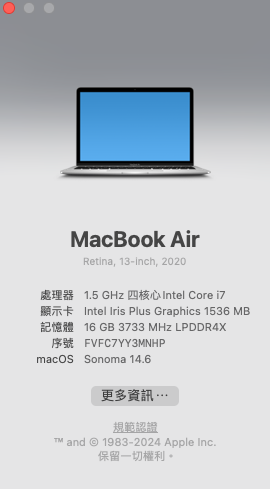
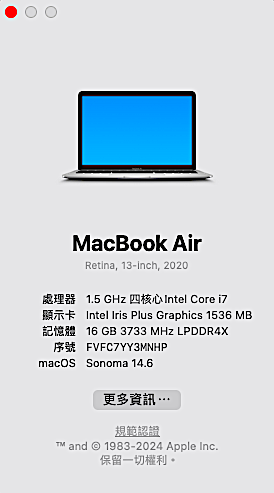
update oc and macos

diff --git a/README.md b/README.md
@@ -1,26 +1,33 @@
 # Razer Blade Stealth 13 Icelake Hackintosh (OpenCore)
 
 ## Support Version
-* OpenCore: `0.8.2`
-* MacOS: `Monterey 12.4`
+![OpenCore](https://img.shields.io/badge/OpenCore-1.0.2-grey?style=for-the-badge&logo=okta&logoColor=white&labelColor=blue&link=https%3A%2F%2Fgithub.com%2Facidanthera%2FOpenCorePkg%2Freleases%2Ftag%2F1.0.2
+) &emsp; ![MacOS](https://img.shields.io/badge/MacOS-Sonoma_14.6-grey?style=for-the-badge&logo=apple&logoColor=white&labelColor=black
+)
 
+## Screenshot
+### About this Mac
+<p align="center"><img src="./Screenshot/Sonoma%2014.6.png"></p>
 
-![](https://i.imgur.com/rgKySm7.png)
-    
-> I changed graphic card name in this picture.
+### Idle power consumption
+<p align="center"><img src="./Screenshot/idle.png"></p>
+
+> [!NOTE]
+> The battery hardly drains during sleep mode. With the brightness set to about 60%, it drains about 5% of the battery over 30 minutes of regular use (watching videos, listening to music, and word processing). Theoretically, the battery life can last up to 10 hours.
 
 ## Tested Model Spec
 * ### Razer Blade Stealth 13 (2020) RZ09-0310
-    ![](https://assets2.razerzone.com/images/blade-stealth-2020/razer-blade-stealth-2020-120hz-model.png)
-    |  Specifications   |              Detail                               |
-    |-------------------|---------------------------------------------------|
-    |Processor          |i7-1065G7                                          |
-    |Integrated Graphics|Intel Iris Plus Graphics                           |
-    |Graphic Card       |NVIDIA® GeForce GTX 1650 Ti Max-Q (4GB GDDR5 VRAM) |
-    |Memory             |16GB<sup>8G*2</sup> LPDDR4X 3733 MHz               |   
-    |Sound Card         |Realtek ALC298 (0x0298)                            |
-    |Wireless Card      |AX201                                              |
-    |Battery            |53.1Wh                                             |
+    <p align="center"><img src="https://assets2.razerzone.com/images/blade-stealth-2020/razer-blade-stealth-2020-120hz-model.png"></p>
+
+    | Specifications      | Detail                                             |
+    | ------------------- | -------------------------------------------------- |
+    | Processor           | i7-1065G7                                          |
+    | Integrated Graphics | Intel Iris Plus Graphics                           |
+    | Graphic Card        | NVIDIA® GeForce GTX 1650 Ti Max-Q (4GB GDDR5 VRAM) |
+    | Memory              | 16GB<sup>8G*2</sup> LPDDR4X 3733 MHz               |
+    | Sound Card          | Realtek ALC298 (0x0298)                            |
+    | Wireless Card       | AX201                                              |
+    | Battery             | 53.1Wh                                             |
 
 
 ## What is Working?
@@ -28,65 +35,75 @@
 - Hardware acceleration
 - Sleep/Wake
 - Battery read-out
-- Audio (Internal speakers, 3.5mm headphone jack) <sup>**Unstable(Boot from Windows)**</sup>
+- Audio (Internal speakers, 3.5mm headphone jack)
 - Keyboard & trackpad/touchscreen with all macOS gestures
 - Wi-Fi & Bluetooth
 - USB ports
 
 ## What is Not Working?
-- Airdrop <sup>**Not Supported in MacOS when using Intel Wireless Card**</sup>
-- NVIDIA® GeForce GTX 1650 Ti Max-Q <sup>**Disable in ACPI**</sup>
+- AWDL (Apple Wireless Direct Link) <sup>**Not Supported in MacOS while using Intel Wireless Card**</sup>
+- NVIDIA® GeForce GTX 1650 Ti Max-Q <sup>**Disable in BIOS**</sup>
 - ThunderBolt 3 <sup>**Type-C port is fine to use.**</sup>
 
 ---
 ---
 # Guidence
 ## Getting started with [OpenCore](https://dortania.github.io/OpenCore-Install-Guide/)
+
 > Essentially follow the [Laptop Icelake | OpenCore Install Guide](https://dortania.github.io/OpenCore-Install-Guide/config-laptop.plist/icelake.html#intel-bios-settings) and incorporate the insights listed below.
 ## BIOS
+> [!CAUTION]
 > We accept no liability for any loss or damage howsoever changing BIOS with this guidance and cause damage on your device. Please be careful and make sure you know what you are doing.
 * Due to some BIOS setting options are hidden by Razer, we can use several tools to help us matching [Intel BIOS Settings | OpenCore Install Guide](https://dortania.github.io/OpenCore-Install-Guide/config-laptop.plist/icelake.html#intel-bios-settings), here are the steps in  [StoneEvil](https://github.com/stonevil/Razer_Blade_Advanced_early_2019_Hackintosh) guide.
+
+### Settings
+- **Advanced**
+  - **CPU Configuration**
+    - **Software Guard Extensions(SGX)** →&nbsp;`Disabled`
+  - **Power and Performance**
+    - **CPU Power Management**
+      - **CPU Lock Configuration**
+        - **CFG Lock** →&nbsp;`Disabled`
+  - **Thunderbolt(TM) Configuration**
+    - **Intergrated Thunderbolt(TM) Support** →&nbsp;`Disabled`
+  - **USB Configuration** (No need `ReleaseUsbOwnership` in UEFI > Quirks when the follow options are enabled.)
+    - **XHCI Hand-off** →&nbsp;`Enabled`
+    - **EHCI Hand-off** →&nbsp;`Enabled`
+- **Chipset**
+  - **System Agent(SA) Configuration**
+    - **Graphics Configuration**
+      - **Primary Display** →&nbsp;`IGFX` (Optional, or disable in ACPI)
+      - **DVMT Pre-Allocated** →&nbsp;`64M`
+      - **DVMT Total Gfx Memory** →&nbsp;`Max`
+    - **TCSS Setup Menu** (Optional. Use for disable Thunderbolt(TM) Device)
+        - **ITBI PCI0 Root Port** →&nbsp;`Disabled`
+        - **ITBI PCI1 Root Port** →&nbsp;`Disabled`
+        - **ITBT DMA0** →&nbsp;`Disabled`
+    - **VT-d** →&nbsp;`Disabled`
+    - **SATA and RST Configuration**
+      - **SATA Mode Selection** →&nbsp;`AHCI`
+  - **Security**
+    - **Secure Boot**
+      - **Secure Boot** →&nbsp;`Disabled`
+- **Boot**
+    - **Fast Boot** →&nbsp;`Disabled`
+    - **CSM Support** →&nbsp;`Disabled`
+
 ---
 ---
 # Specific Patch
 ## ACPI
 ### Add
-* SSDT-dGPU-Off
-    * More details in [Disabling laptop dGPUs | Getting Started With ACPI](https://dortania.github.io/Getting-Started-With-ACPI/Laptops/laptop-disable.html#disabling-laptop-dgpus-ssdt-dgpu-off-nohybgfx).
-* SSDT-PTSWAK
-    * More details in [Here](https://www.reddit.com/r/hackintosh/comments/vz2lfq/success_macos_monterey_124_on_a_2021_razer_blade/).
-* SSDT-TPAD
-    * I wrote this by myself, and it made the touchpad work.
-
-### Patch
-* SSDT-TPAD
-    |Comment|String |Change _STA to XSTA in TPD0|
-    |-------|-------|---------------------------|
-    |Enabled|Boolean|YES                        |
-    |Find   |Data   |141C5F53 544100            |
-    |Replace|Data   |141C5853 544100            |
-
-* SSDT-PTSWAK
-    |Comment        |String |Rename _PTS to ZPTS (Black Screen on Wake Fix)|
-    |---------------|-------|----------------------------------------------|
-    |Enabled        |Boolean|YES                                           |
-    |Find           |Data   |5F505453 01                                   |
-    |Replace        |Data   |5A505453 01                                   |
-    |TableSignature |Data   |44534454                                      |
-
-    |Comment        |String |Rename _WAK to ZWAK (Black Screen on Wake Fix)|
-    |---------------|-------|----------------------------------------------|
-    |Enabled        |Boolean|YES                                           |
-    |Find           |Data   |5F57414B 01                                   |
-    |Replace        |Data   |5A57414B 01                                   |
-    |TableSignature |Data   |44534454                                      |
-
-    |Comment        |String |Rename RTEC to XTEC (Black Screen on Wake Fix)|
-    |---------------|-------|----------------------------------------------|
-    |Enabled        |Boolean|YES                                           |
-    |Find           |Data   |47055254 45430070                             |
-    |Replace        |Data   |47055854 45430070                             |
-    |TableSignature |Data   |44534454                                      |
+* **SSDT-dGPU-Off**
+    * More details in [Disabling laptop dGPUs | Getting Started With ACPI](https://dortania.github.io/Getting-Started-With-ACPI/Laptops/laptop-disable.html#disabling-laptop-dgpus-ssdt-dgpu-off-nohybgfx). No need when you disabled dGPU in BIOS.
+* **SSDT-PTSWAK**
+    * This fixes the issue where the screen needed to be turned on twice upon waking from sleep by modifying the content in [here](https://www.reddit.com/r/hackintosh/comments/vz2lfq/success_macos_monterey_124_on_a_2021_razer_blade/) to meet the requirements.
+* **SSDT-PPRW**
+    * To fix the instant wake caused by RP05. More details in [here](https://www.tonymacx86.com/threads/instant-dark-wake-after-sleep-gigabyte-b460-aorus-opencore.317139/).
+* **SSDT-TPD0**
+    * I wrote this myself, enabling I2C1 and disabling the other I2CX devices to make the touchpad work.
+* Other SSDT
+    * Refer to [OC-little](https://github.com/daliansky/OC-little) to add missing devices and verify all functionalities, including power consumption and sleep.
 
 ## DeviceProperties
 ### Add
@@ -94,6 +111,8 @@
    - [**Support all possible Core Display Clock (CDCLK) frequencies on ICL platforms**](https://github.com/acidanthera/WhateverGreen/blob/master/Manual/FAQ.IntelHD.en.md#support-all-possible-core-display-clock-cdclk-frequencies-on-icl-platforms)
    - [**Fix the issue that the builtin display remains garbled after the system boots on ICL platforms**](https://github.com/acidanthera/WhateverGreen/blob/master/Manual/FAQ.IntelHD.en.md#fix-the-issue-that-the-builtin-display-remains-garbled-after-the-system-boots-on-icl-platforms)
    - More details in [**Intel Iris Plus Graphics (Ice Lake processors) | WhateverGreen (Intel® HD Graphics FAQs)**](https://github.com/acidanthera/WhateverGreen/blob/master/Manual/FAQ.IntelHD.en.md#intel-iris-plus-graphics-ice-lake-processors)
+> [!TIP]
+> Add the `pci-aspm-default` parameter to all PCIe devices detected in Hackintool and set ASPM to L0 to optimize power-saving effects. More details in [here](https://github.com/daliansky/OC-little/tree/master/16-%E7%A6%81%E6%AD%A2PCI%E8%AE%BE%E5%A4%87%E5%8F%8A%E8%AE%BE%E7%BD%AEASPM%E5%B7%A5%E4%BD%9C%E6%A8%A1%E5%BC%8F/16-2-%E8%AE%BE%E7%BD%AEASPM%E5%B7%A5%E4%BD%9C%E6%A8%A1%E5%BC%8F).
 
 ## NVRAM
 ### Add
@@ -110,5 +129,7 @@
 - [**Apple**](https://www.apple.com/tw/) for the macOS.
 - [**Acidanthera**](https://github.com/acidanthera) for awesome kexts and first-class support for hackintosh enthusiasts.
 - [**Dortania**](https://github.com/dortania) for the great guides.
+- [**daliansky**](https://github.com/daliansky) for the guidance on the ACPI patches and optimizations.
 - [**StoneEvil**](https://github.com/stonevil/Razer_Blade_Advanced_early_2019_Hackintosh) for BIOS setting.
 - [**jnr0602**](https://www.reddit.com/user/jnr0602/) for providing SSDT-PTSWAK.
+- [**mfpss95134**](https://github.com/mfpss95134) for giving advices and helps.
